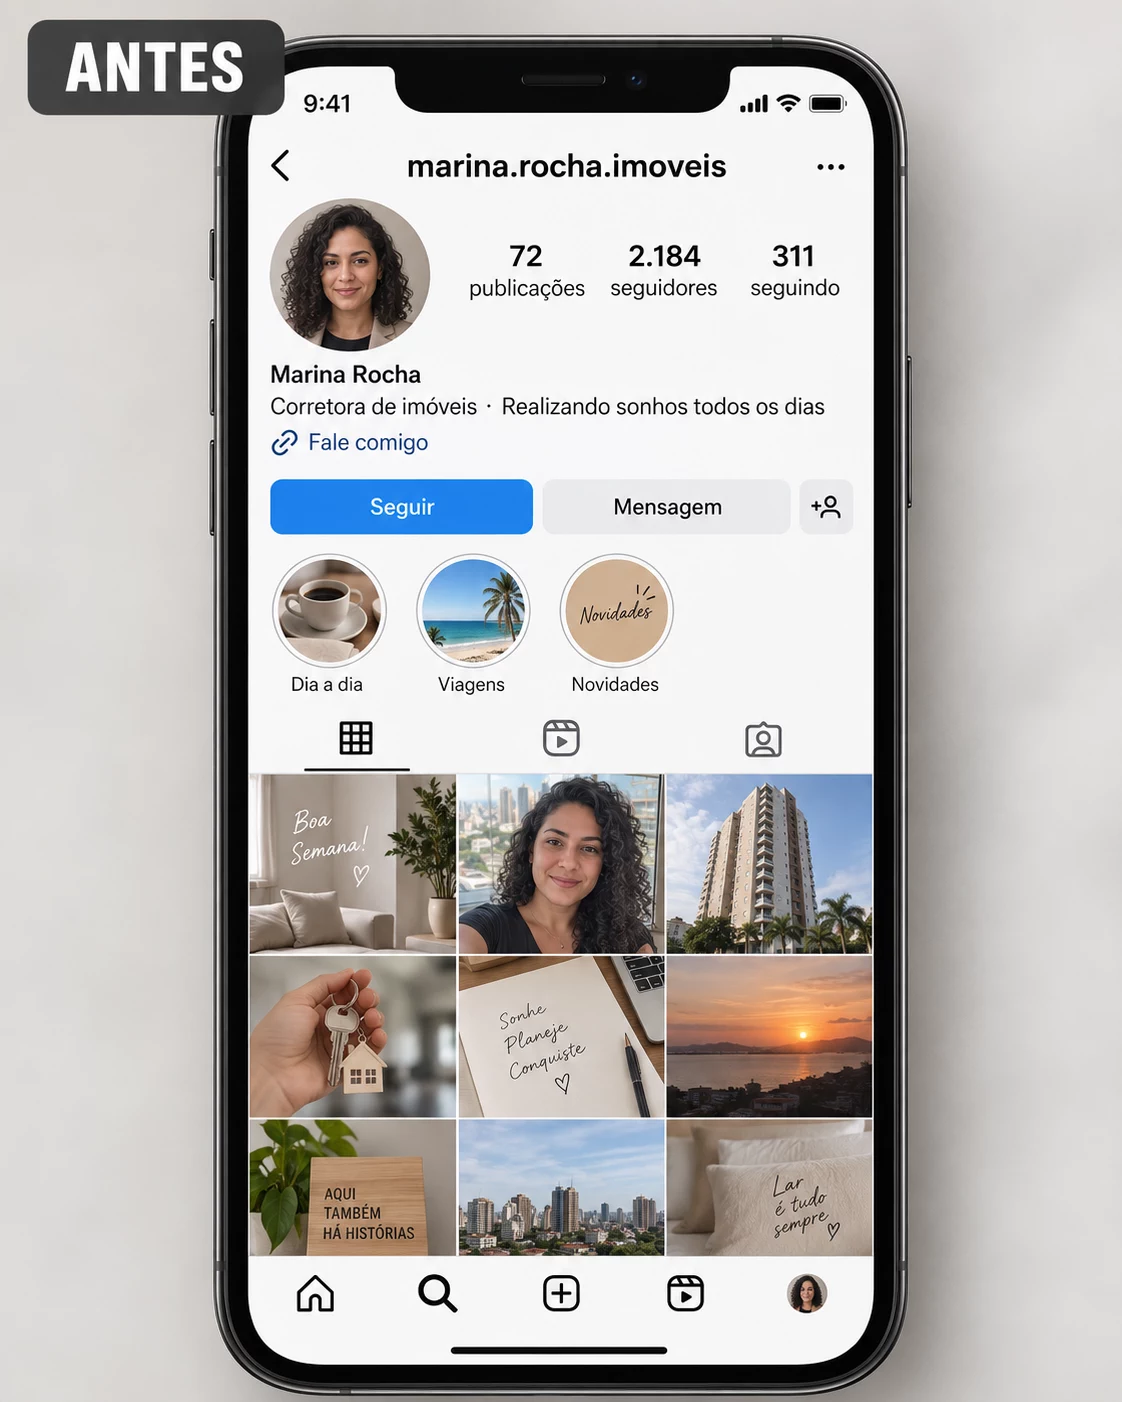
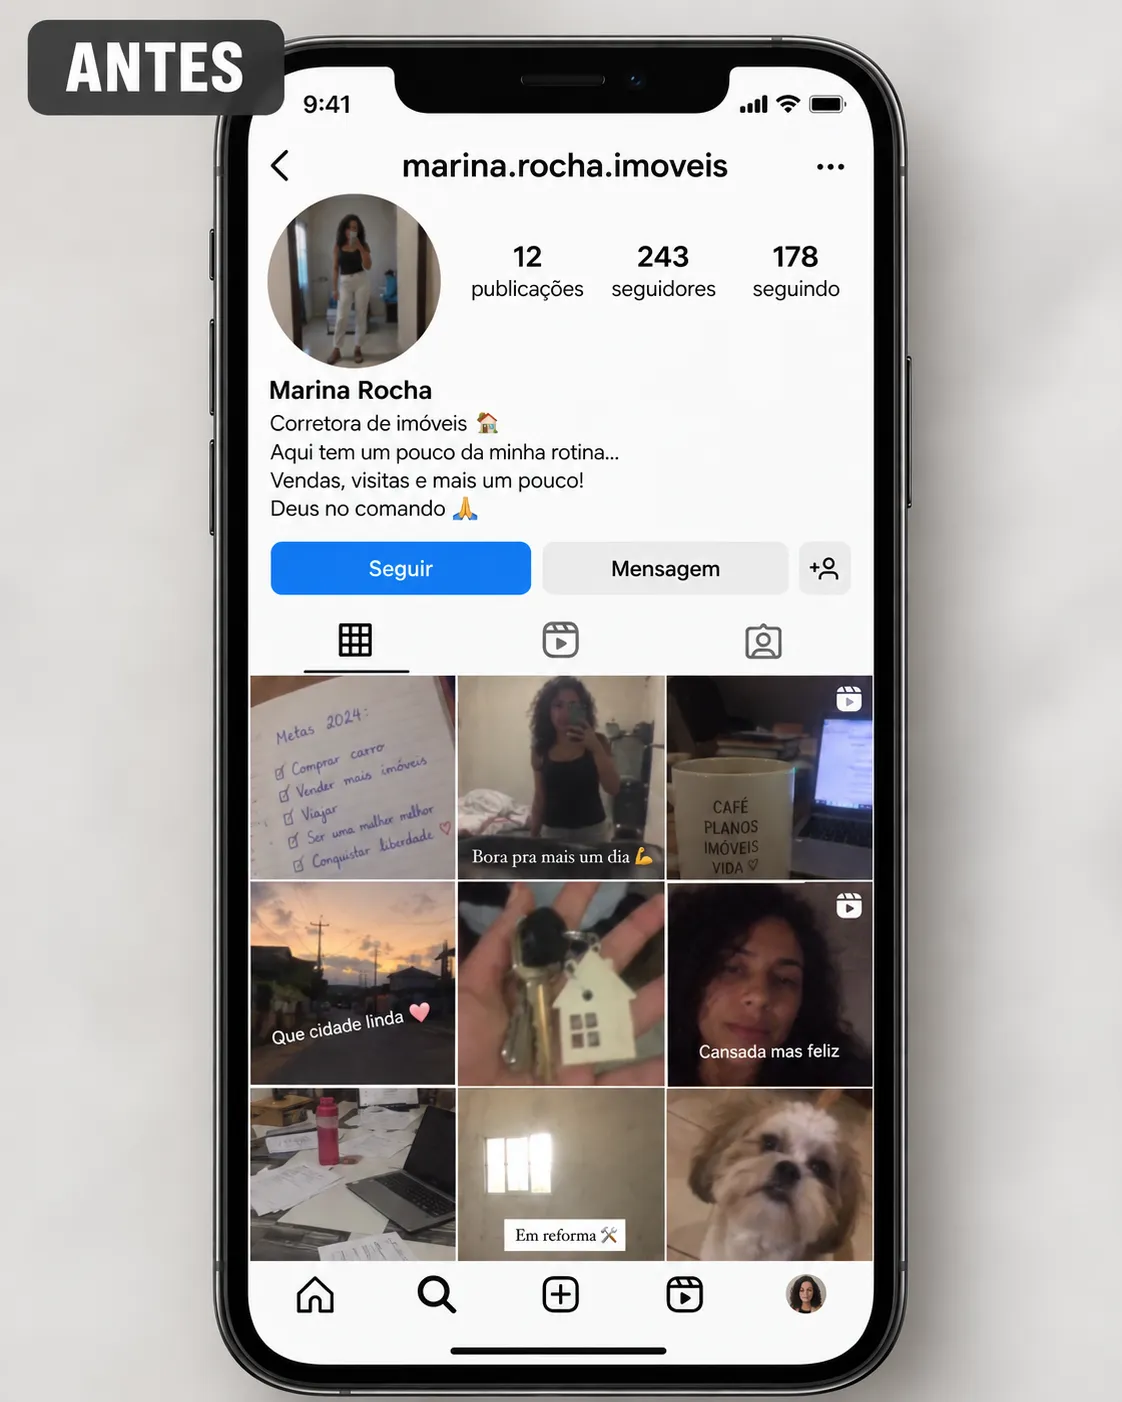
Update upsell profile images and comparison controls

diff --git a/vagas-obrigado/index.html b/vagas-obrigado/index.html
@@ -52,7 +52,7 @@
       <section class="hero" id="oferta" aria-labelledby="offerTitle">
         <div class="wrap hero-grid">
           <div class="hero-copy">
-            <p class="eyebrow">ACELERADOR DE RESULTADOS - CONSULTORIA 1:1</p>
+            <p class="eyebrow offer-availability">OFERTA DISPONÍVEL APENAS NESTA PÁGINA</p>
             <h1 id="offerTitle">Eu te pego pela mão.<br><span>E acelero teu resultado.</span></h1>
             <p class="hero-lead">Em 60 minutos comigo, escolhemos um problema do seu negócio e eu resolvo com você. Depois, você recebe a gravação e o plano de execução prático.</p>
 
@@ -117,7 +117,6 @@
               <p class="demo-kicker">FOCO MAIS FREQUENTE</p>
               <h3>Seu perfil explica melhor quem você atende, onde atua e por que falar com você.</h3>
               <p>Ajustamos nome, bio, proposta de valor, destaques, publicações fixadas e chamada para contato com base no seu posicionamento.</p>
-              <p class="example-disclaimer">Exemplo ilustrativo de reorganização. O perfil, a pessoa e os números abaixo são fictícios.</p>
             </div>
 
             <div class="mobile-comparison-toggle" aria-label="Alternar comparação do perfil">
@@ -127,13 +126,11 @@
 
             <div class="profile-comparison">
               <section class="profile-frame is-active" id="profileBefore" data-profile-state="before" aria-label="Perfil demonstrativo antes dos ajustes">
-                <div class="profile-state"><span>ANTES</span><b>Perfil demonstrativo</b></div>
                 <img class="profile-demo-image" src="/vagas-obrigado/assets/instagram-posicionamento-antes-20260928.webp" alt="Exemplo ilustrativo de um perfil imobiliário antes da reorganização do posicionamento" width="1122" height="1402" loading="lazy">
               </section>
 
-              <section class="profile-frame" id="profileAfter" data-profile-state="after" aria-label="Mesmo perfil demonstrativo depois dos ajustes">
-                <div class="profile-state profile-state-after"><span>DEPOIS</span><b>Mesma identidade e seguidores</b></div>
-                <img class="profile-demo-image" src="/vagas-obrigado/assets/instagram-posicionamento-depois-20260928.webp" alt="O mesmo perfil imobiliário ilustrativo depois da reorganização do posicionamento" width="1122" height="1402" loading="lazy">
+              <section class="profile-frame" id="profileAfter" data-profile-state="after" aria-label="Perfil demonstrativo depois dos ajustes">
+                <img class="profile-demo-image" src="/vagas-obrigado/assets/instagram-posicionamento-depois-20260928.webp" alt="Imagem ilustrativa de um perfil imobiliário depois da reorganização do posicionamento" width="1122" height="1402" loading="lazy">
               </section>
             </div>
           </article>
@@ -152,7 +149,8 @@
               <img class="photo-layer photo-after" src="/vagas-obrigado/assets/foto-imovel-depois-20260928.webp" alt="O mesmo cômodo e enquadramento depois de ajustes de iluminação, cor e verticais" width="1672" height="941" loading="lazy">
               <span class="photo-label photo-label-before">ANTES</span>
               <span class="photo-label photo-label-after">DEPOIS</span>
-              <span class="comparison-divider" aria-hidden="true"><i></i></span>
+              <span class="comparison-divider" aria-hidden="true"></span>
+              <button class="comparison-handle" id="photoComparisonHandle" type="button" role="slider" aria-label="Comparador Antes e Depois. Arraste ou use as setas do teclado." aria-valuemin="0" aria-valuemax="100" aria-valuenow="50" aria-valuetext="Dividido ao meio"><span aria-hidden="true"></span></button>
             </div>
             <div class="comparison-controls">
               <label for="photoRange" id="photoComparisonHelp">Arraste para comparar</label>

diff --git a/vagas-obrigado/upsell.css b/vagas-obrigado/upsell.css
@@ -80,6 +80,8 @@ input, textarea { caret-color: var(--accent); }
   line-height: 1.4;
   text-transform: uppercase;
 }
+.offer-availability { animation: offer-pulse 1.8s ease-in-out infinite; }
+@keyframes offer-pulse { 0%, 100% { opacity: 1; } 50% { opacity: .58; } }
 .text-link { font-size: 14px; text-decoration: underline; }
 .text-link:hover, .decline:hover { color: var(--accent); }
 .action-icon { width: 20px; height: 20px; flex: 0 0 20px; }
@@ -447,10 +449,12 @@ input, textarea { caret-color: var(--accent); }
 .photo-label-before { left: 16px; }
 .photo-label-after { right: 16px; }
 .comparison-divider { position: absolute; z-index: 5; top: 0; bottom: 0; left: var(--comparison-position); width: 2px; transform: translateX(-1px); background: #fff; box-shadow: 0 0 18px rgba(0,0,0,.34); pointer-events: none; }
-.comparison-divider i { position: absolute; top: 50%; left: 50%; width: 42px; height: 42px; transform: translate(-50%, -50%); border: 2px solid #fff; border-radius: 50%; background: rgba(14,17,12,.72); }
-.comparison-divider i::before, .comparison-divider i::after { position: absolute; top: 50%; width: 8px; height: 8px; border: solid #fff; content: ''; }
-.comparison-divider i::before { left: 9px; border-width: 0 0 2px 2px; transform: translateY(-50%) rotate(45deg); }
-.comparison-divider i::after { right: 9px; border-width: 2px 2px 0 0; transform: translateY(-50%) rotate(45deg); }
+.comparison-handle { position: absolute; z-index: 6; top: 50%; left: var(--comparison-position); display: grid; width: 48px; height: 48px; padding: 0; place-items: center; transform: translate(-50%, -50%); border: 2px solid #fff; border-radius: 50%; background: rgba(14,17,12,.82); color: #fff; box-shadow: 0 2px 14px rgba(0,0,0,.25); cursor: ew-resize; touch-action: none; }
+.comparison-handle span { position: relative; width: 18px; height: 14px; border-right: 2px solid currentColor; border-left: 2px solid currentColor; }
+.comparison-handle span::before, .comparison-handle span::after { position: absolute; top: 50%; width: 7px; height: 7px; border: solid currentColor; content: ''; }
+.comparison-handle span::before { left: -4px; border-width: 0 0 2px 2px; transform: translateY(-50%) rotate(45deg); }
+.comparison-handle span::after { right: -4px; border-width: 2px 2px 0 0; transform: translateY(-50%) rotate(45deg); }
+.comparison-handle:focus-visible { outline: 3px solid #c1ff63; outline-offset: 3px; }
 .comparison-controls { max-width: 760px; margin: 22px auto 0; }
 .comparison-controls label { margin: 0 0 9px; color: #4f5847; font-size: 12px; font-weight: 750; text-align: center; }
 .comparison-controls input[type='range'] { width: 100%; height: 30px; margin: 0; padding: 0; border: 0; background: transparent; accent-color: #4f6f2c; cursor: ew-resize; }
@@ -814,7 +818,7 @@ footer nav {
   .ig-avatar { width: 70px; height: 70px; }
   .ig-bio { min-height: 100px; }
   .photo-comparison { border-radius: 15px; }
-  .comparison-divider i { width: 36px; height: 36px; }
+  .comparison-handle { width: 42px; height: 42px; }
   .comparison-buttons { display: grid; grid-template-columns: repeat(3, 1fr); }
   .comparison-buttons button { padding-inline: 7px; }
   .creative-gallery { grid-template-columns: 1fr; gap: 24px; }
@@ -958,6 +962,7 @@ footer nav {
 }
 
 @media (prefers-reduced-motion: reduce) {
+  .offer-availability { animation: none !important; }
   html { scroll-behavior: auto; }
   *, *::before, *::after { animation-duration: .01ms !important; animation-iteration-count: 1 !important; scroll-behavior: auto !important; transition-duration: .01ms !important; }
 }

diff --git a/vagas-obrigado/upsell.js b/vagas-obrigado/upsell.js
@@ -439,8 +439,9 @@
   function setupPhotoComparison() {
     const comparison = get('photoComparison');
     const range = get('photoRange');
+    const handle = get('photoComparisonHandle');
     const buttons = Array.from(document.querySelectorAll('[data-photo-position]'));
-    if (!comparison || !range) return;
+    if (!comparison || !range || !handle) return;
 
     const descriptionFor = value => {
       if (value <= 0) return 'Somente a imagem antes do tratamento está visível';
@@ -452,7 +453,9 @@
       const value = Math.min(100, Math.max(0, Number(rawValue) || 0));
       comparison.style.setProperty('--comparison-position', `${value}%`);
       range.value = String(value);
+      handle.setAttribute('aria-valuenow', String(value));
       range.setAttribute('aria-valuetext', descriptionFor(value));
+      handle.setAttribute('aria-valuetext', descriptionFor(value));
       buttons.forEach(button => {
         const selected = Number(button.dataset.photoPosition) === value;
         button.classList.toggle('is-active', selected);
@@ -463,6 +466,56 @@
 
     range.addEventListener('input', () => update(range.value));
     range.addEventListener('change', () => trackHubEvent('upsell_photo_comparison_changed', { position: update(range.value) }));
+    let dragging = false;
+    let moved = false;
+    let skipClick = false;
+    let startX = 0;
+    const updateFromPointer = event => {
+      const bounds = comparison.getBoundingClientRect();
+      update(((event.clientX - bounds.left) / bounds.width) * 100);
+    };
+    handle.addEventListener('pointerdown', event => {
+      if (event.button !== undefined && event.button !== 0) return;
+      dragging = true;
+      moved = false;
+      startX = event.clientX;
+      handle.setPointerCapture(event.pointerId);
+      updateFromPointer(event);
+      event.preventDefault();
+    });
+    handle.addEventListener('pointermove', event => {
+      if (dragging) {
+        if (Math.abs(event.clientX - startX) > 4) moved = true;
+        updateFromPointer(event);
+      }
+    });
+    const finishDrag = event => {
+      if (!dragging) return;
+      dragging = false;
+      skipClick = moved;
+      trackHubEvent('upsell_photo_comparison_changed', { position: update(range.value), control: 'handle' });
+      if (handle.hasPointerCapture(event.pointerId)) handle.releasePointerCapture(event.pointerId);
+    };
+    handle.addEventListener('pointerup', finishDrag);
+    handle.addEventListener('pointercancel', finishDrag);
+    handle.addEventListener('click', () => {
+      if (skipClick) {
+        skipClick = false;
+        return;
+      }
+      const position = update(Number(range.value) <= 50 ? 75 : 25);
+      trackHubEvent('upsell_photo_comparison_changed', { position, control: 'handle_click' });
+    });
+    handle.addEventListener('keydown', event => {
+      let next = Number(range.value);
+      if (event.key === 'ArrowLeft' || event.key === 'ArrowDown') next -= event.shiftKey ? 10 : 1;
+      else if (event.key === 'ArrowRight' || event.key === 'ArrowUp') next += event.shiftKey ? 10 : 1;
+      else if (event.key === 'Home') next = 0;
+      else if (event.key === 'End') next = 100;
+      else return;
+      event.preventDefault();
+      trackHubEvent('upsell_photo_comparison_changed', { position: update(next), control: 'handle' });
+    });
     buttons.forEach(button => button.addEventListener('click', () => {
       const position = update(button.dataset.photoPosition);
       trackHubEvent('upsell_photo_comparison_changed', { position, control: 'button' });

diff --git a/vagas-obrigado/ASSETS.md b/vagas-obrigado/ASSETS.md
@@ -4,7 +4,7 @@
 | --- | --- | --- | --- | --- |
 | `/assets/natan-palestra-retrato.webp` | Retrato principal da hero e convite final da oferta | Foto real de Natan Pimentel em palestra (Drive oficial) | Fotografia real | Autorizado pelo usuário; dimensões 1086 × 1448px, proporção 3:4 |
 | `/assets/natan-palestra-horizontal.webp` | Representação visual da gravação da sessão (Google Meet) | Foto real de Natan Pimentel em palestra (Drive oficial) | Fotografia real | Autorizado pelo usuário; dimensões 1448 × 1086px, proporção 4:3 widescreen |
-| `/assets/natan-palestra-avatar.webp` | Avatar de Natan no identificador do fundador na hero | Foto real de Natan Pimentel em palestra (Drive oficial) | Fotografia real | Autorizado pelo usuário; recorte circular focado no rosto de 440 × 440px |
+| `/assets/natan-palestra-avatar.webp` | Avatar de Natan no identificador do fundador na hero | Arquivo WebP enviado pelo usuário em `/mnt/g/Meu Drive/Tudo/1. LTDA/6. FOTOS/natan.webp` | Fotografia real | 250 × 250px; avatar real de Natan autorizado para a página |
 | `/vagas/assets/thesvg/google-meet.svg` | Identificar a sessão online pelo Google Meet | Asset oficial já versionado no projeto | Marca/interface | Usar apenas como identificação do canal da sessão |
 | Depoimentos e métricas | Prova social opcional | Não fornecidos | Caso verificado | Desativados na produção até haver autorização, definição da métrica, períodos, fonte e contexto documentados |
 | VSL futura | Substituir a composição estática da hero quando houver mídia válida | Pendente | Vídeo + poster | A área aceita URL configurada; hoje não renderiza player, botão de play ou espaço reservado |
@@ -22,8 +22,8 @@ As demonstrações HTML/CSS anteriores foram substituídas pelos seguintes WebPs
 - `criativos-anuncios-exemplo-20260928.webp`: demonstração ilustrativa de criativos-anuncios-exemplo; autorizado como ilustração, nunca como prova social.
 - `foto-imovel-antes-20260928.webp`: demonstração ilustrativa de foto-imovel-antes; autorizado como ilustração, nunca como prova social.
 - `foto-imovel-depois-20260928.webp`: demonstração ilustrativa de foto-imovel-depois; autorizado como ilustração, nunca como prova social.
-- `instagram-posicionamento-antes-20260928.webp`: demonstração ilustrativa de instagram-posicionamento-antes; autorizado como ilustração, nunca como prova social.
-- `instagram-posicionamento-depois-20260928.webp`: demonstração ilustrativa de instagram-posicionamento-depois; autorizado como ilustração, nunca como prova social.
+- `instagram-posicionamento-antes-20260928.webp`: perfil demonstrativo “antes”; arquivo WebP fornecido pelo usuário em `/mnt/c/Users/Natan/Downloads/antes.webp` (1122 × 1402px), classificado como ilustração, nunca como prova social.
+- `instagram-posicionamento-depois-20260928.webp`: perfil demonstrativo “depois”; arquivo WebP fornecido pelo usuário em `/mnt/c/Users/Natan/Downloads/depois.webp` (1122 × 1402px), classificado como ilustração, nunca como prova social.
 - `mapa-mental-exemplo-20260928.webp`: demonstração ilustrativa de mapa-mental-exemplo; autorizado como ilustração, nunca como prova social.
 - `pdf-plano-exemplo-20260928.webp`: demonstração ilustrativa de pdf-plano-exemplo; autorizado como ilustração, nunca como prova social.
 - `plano-execucao-exemplo-20260928.webp`: demonstração ilustrativa de plano-execucao-exemplo; autorizado como ilustração, nunca como prova social.
